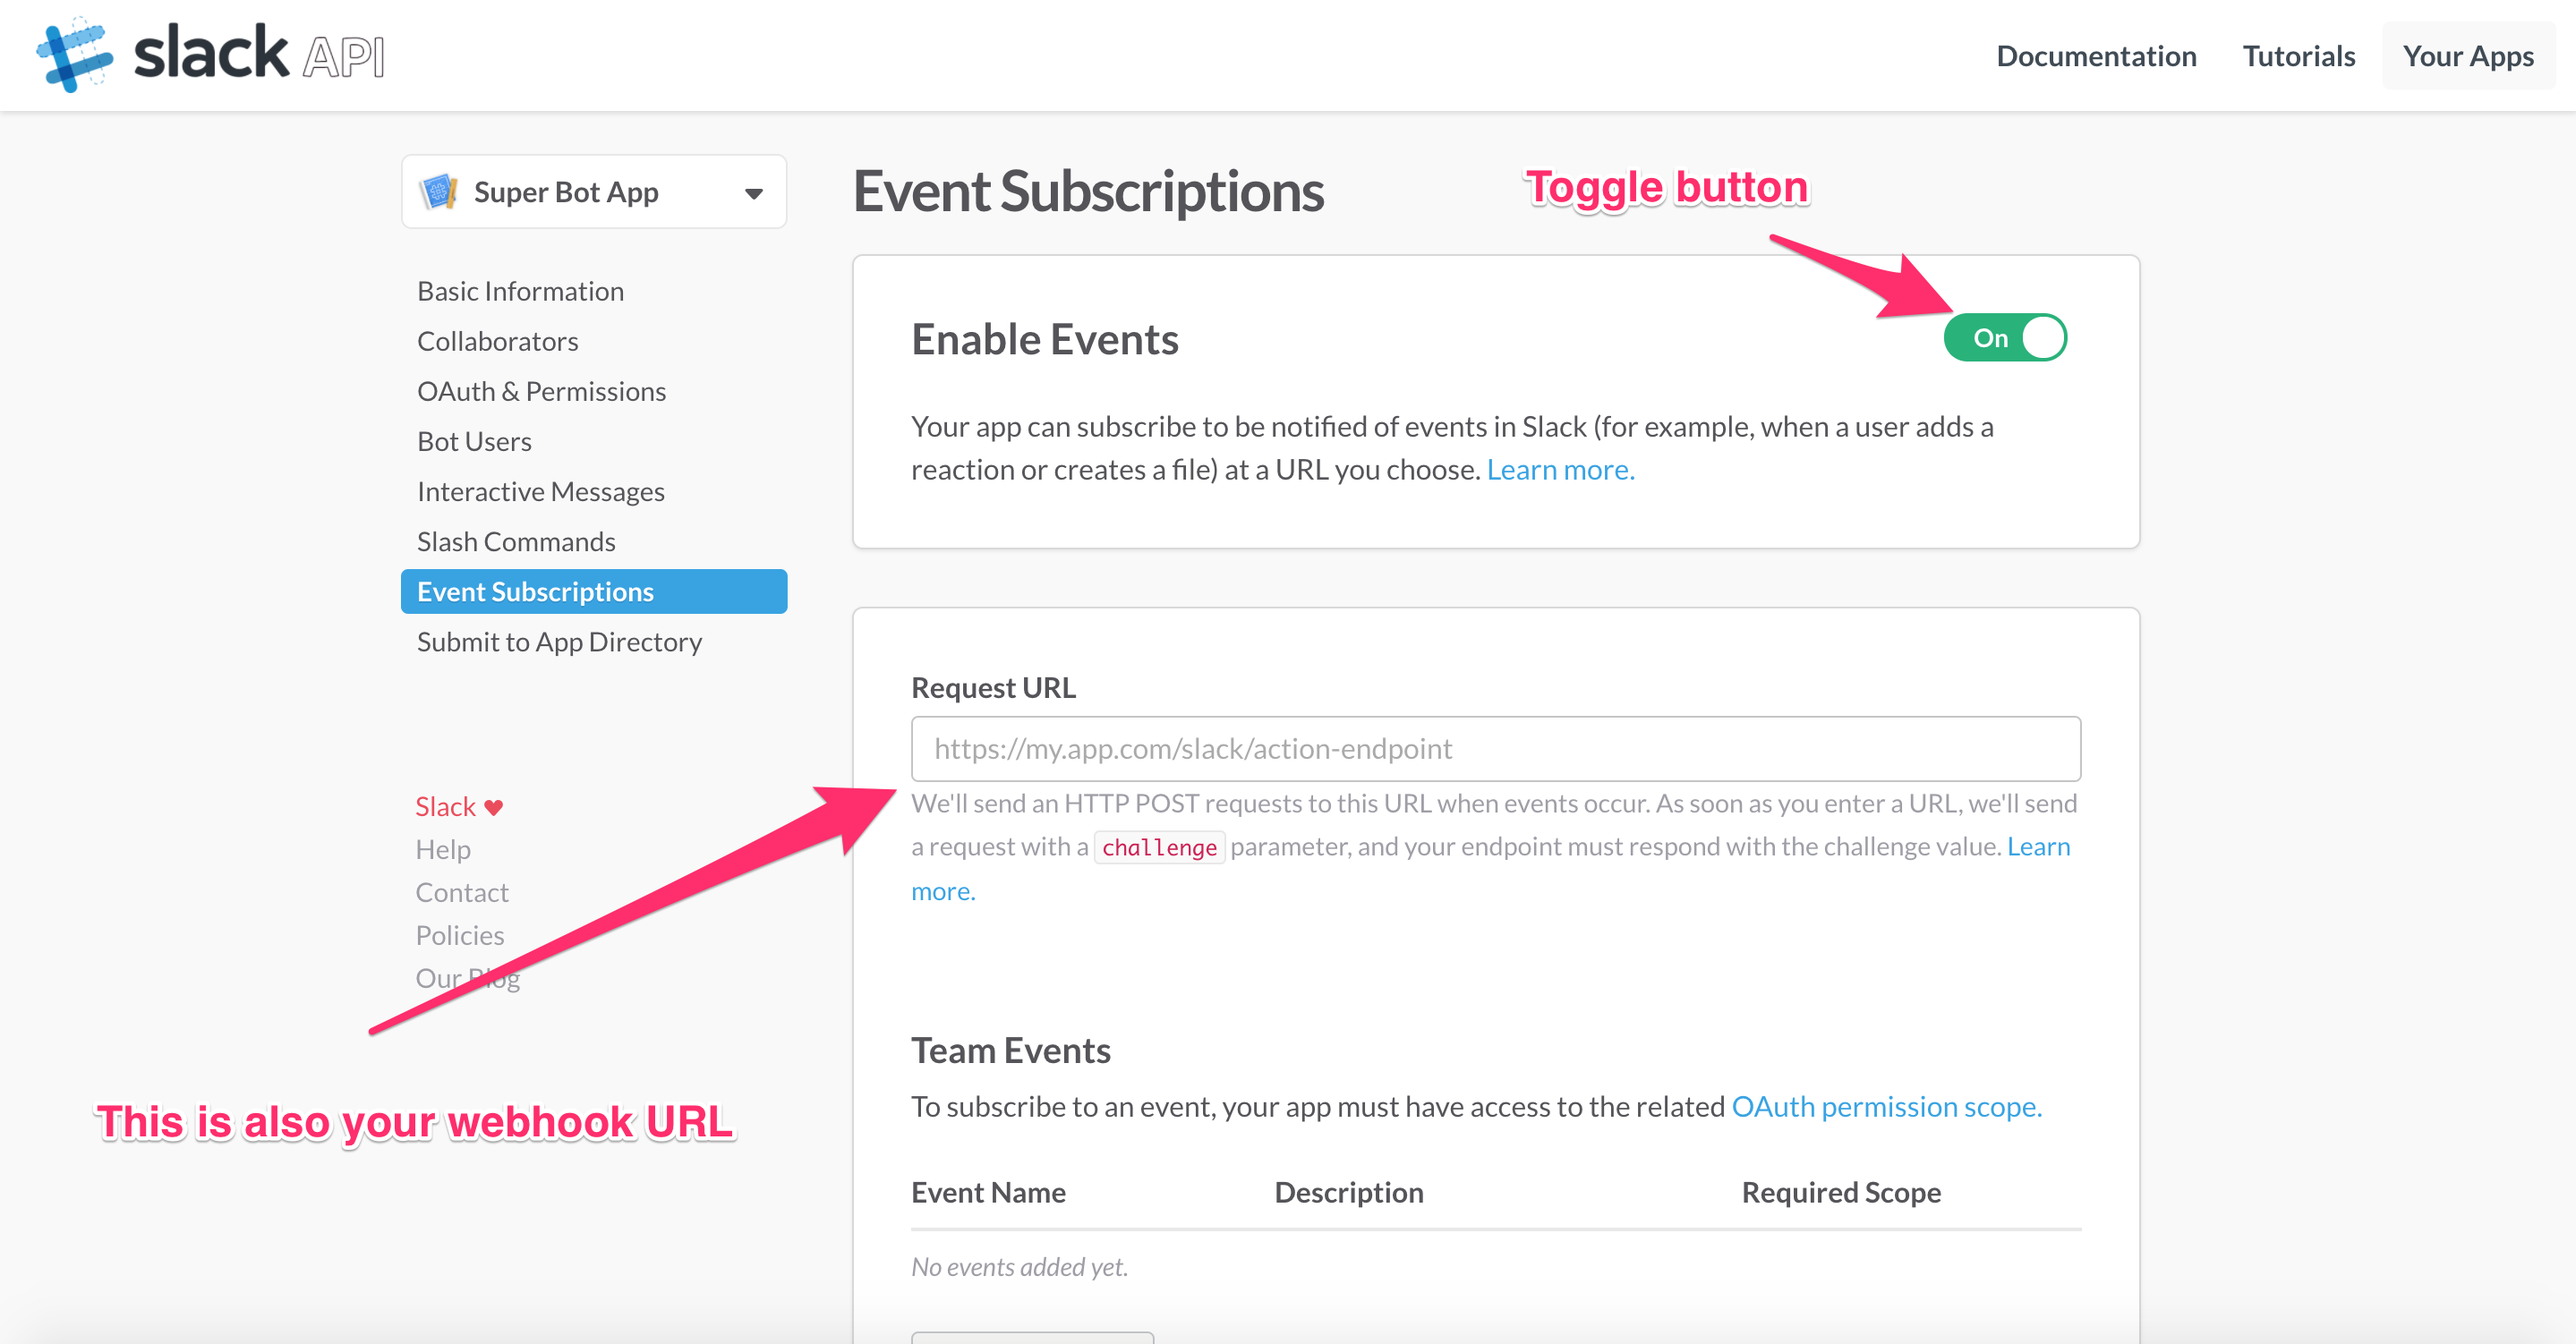
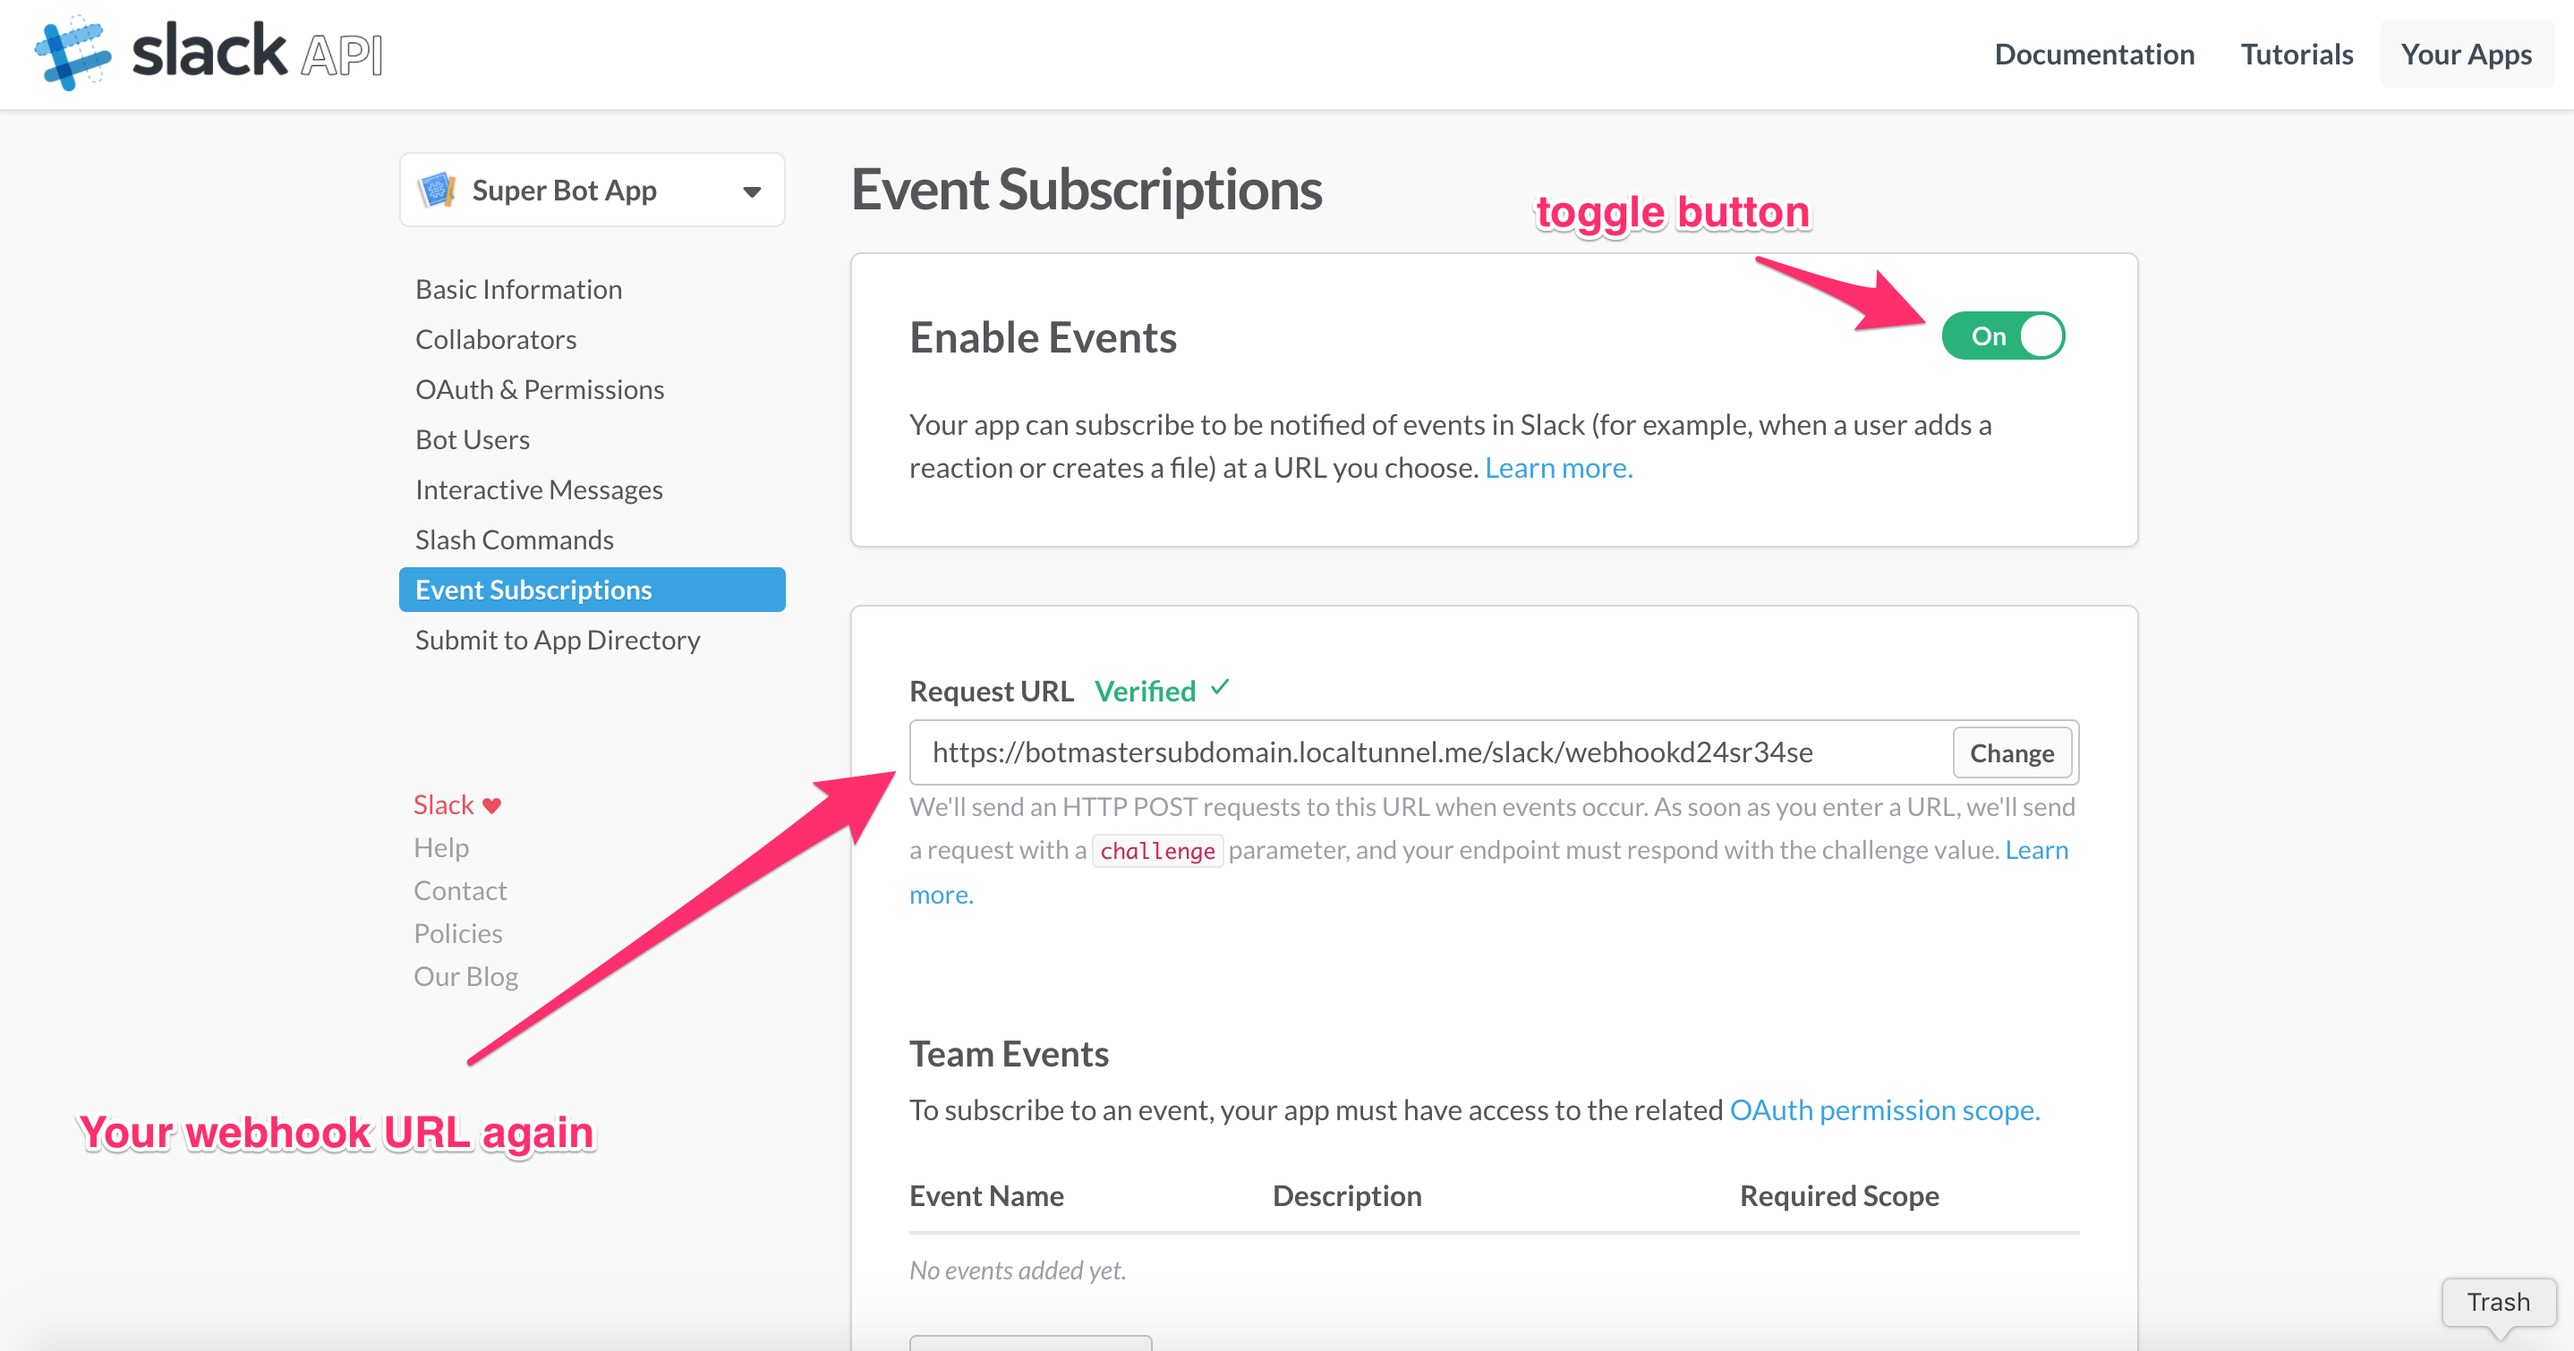
Add Slack setup documentation. Done for its first version

diff --git a/documentation_website/content/getting-started/slack-setup.md b/documentation_website/content/getting-started/slack-setup.md
@@ -16,8 +16,7 @@ const slackSettings = {
   credentials: {
     clientId: 'YOUR app client ID',
     clientSecret: 'YOUR app client secret',
-    verificationToken: 'YOUR app verification Token',
-    landingPageURL: 'YOUR landing page URL' // users will be redirected there after adding your bot app to slack. If not set, they will be redirected to their standard slack chats.
+    verificationToken: 'YOUR app verification Token'
   },
   webhookEndpoint: '/webhookd24sr34se',
   storeTeamInfoInFile: true,
@@ -44,36 +43,74 @@ The `slackSettings` object is required to allow us to communicate to end users v
 
 ## Credentials/Setting up the bot user
 
-This should take you less than 10 minutes if you follow these steps correctly. Don't skip any unless you know what you are doing.
+Following these steps, you will have a fully functional Slack bot using botmaster that can then be edited as wanted. This mini-tutorial uses localtunnel to expose one of your ports to the world. see why you might want to use this and how to install and setup localtunnel [here](/getting-started/webhooks#localtunnel)for your local botmaster project. You can use ngrok or any other service you know or find suitable and achieve the same result.
 
 1. Navigate to: https://api.slack.com/apps and make sure you are signed in. If you aren't you will be redirected to your team's slack once logged in and will need to go back to the mentioned link.
 
-2. Click the **create new App** button and enter an App Name when wanted. This won't be the name of the **bot user**. However, the name should ideally related to your bot user so as not to confuse your users. For instance, if your bot will be called *my_super_bot*, calling the app something like *My Super Bot App* would make sense.
+2. Click the **create new App** button and enter any App Name you want. This won't be the name of the **bot user**. However, the name should ideally be related to your bot user so as not to confuse your users. For instance, if your bot user will be called *my_super_bot*, calling the app something like *My Super Bot App* would make sense.
 
-3. In this page you see, you will see straight away in the *App credentials* section both your Client ID (`clientId` in Botmaster) and your Client Secret (`clientSecret` in Botmaster).
+3. On this page you were redirected to, you will find an *App credentials* section. Both your Client ID (`clientId` in Botmaster) and your Client Secret (`clientSecret` in Botmaster) are here. Take note of them.
 
-4. In the left panel, click on the **OAuth & Permissions** tab and enter your webhook in the **Redirect URL(s)** field as shown here: ![Slack Setup 1](/images/slack_setup_1.png?width=80%) This URL has to be of the form: **https://\<your_base_url\>/slack/\<webhookEndpoint\>**. For example, **if** I am using localtunnel to test the bot locally (see why you might want to use this and how to install and setup localtunnel for your botmaster project [here](/getting-started/webhooks#localtunnel)), and started localtunnel by running the following: `lt -p 3000 -s botmastersubdomain`. I would set my Redirect URL(s) to: `https://botmastersubdomain.localtunnel.me/slack/webhookd24sr34se` (based on the `webhookEnpoint` set in my `slackSettings`). Click on **Save Changes**.
+4. In the left panel, click on the **OAuth & Permissions** tab and enter your webhook in the **Redirect URL(s)** field as shown here:
+    ![Slack Setup 1](/images/slack_setup_1.png?width=90%)
+This URL has to be of the form: **https://\<your_base_url\>/slack/\<webhookEndpoint\>**. For example, **if** I am using localtunnel to test the bot locally, and started localtunnel by running the following:
+ ```bash
+  lt -p 3000 -s botmastersubdomain
+ ```
+I would set my Redirect URL(s) to: `https://botmastersubdomain.localtunnel.me/slack/webhookd24sr34se` (based on the `webhookEnpoint` set in my `slackSettings` at the top of this page). Click on **Save Changes**.
 
 5. Go to **Bot Users** and click on the **Add a Bot User** button. Select a name for your bot (e.g. my_super_bot) and click the **Add Bot User** button.
 
-6. Navigate to the **Event Subscriptions** tab and click on the toggle button in the to right corner to **on**. Then in the **Request URL** field that pops up, enter the same URL as in step 4. It should look something like this: ![Slack Setup 2](/images/slack_setup_2.png?width=80%)
+6. Navigate to the **Event Subscriptions** tab and click on the toggle button in the to right corner to **on**. Then in the **Request URL** field that pops up, enter the same URL as in step 4. **You will get an error**. This is normal and is due to two reasons. Firstly, we don't actually have an app started and listening at the mentioned URL and secondly because even if we did, we don't have our App's verification Token. Let's fix this!
 
-also, you'll need:
+7. Navigate back to **Basic Information** and note that you now have a **Verification Token** in the App Credentials box. Take note of it.
 
-```html
-<a href="https://slack.com/oauth/authorize?scope=bot&client_id=[YOUR_APP_CLIENT_ID]">
-  <img alt="Add to Slack" height="40" width="139"
-  src="https://platform.slack-edge.com/img/add_to_slack.png"
-  srcset="https://platform.slack-edge.com/img/add_to_slack.png 1x,
-          https://platform.slack-edge.com/img/add_to_slack@2x.png 2x" />
-</a>
-```
+8. Start your botmaster app in any project folder you might want (see [here](/getting-started/installation) if you haven't installed botmaster yet). To start the botmaster project, you'll want to create an `app.js` file with the contents from the [code](http://localhost:1313/getting-started/slack-setup/#code) at the top of this page in the root of your project folder. Replace the credentials with the ones you have gathered. Run `node app.js` to start the app. Let's now expose out bot to the world.
 
-If you don't already have these, follow the steps **1-4** on the Facebook Messenger guide:
-https://developers.facebook.com/docs/messenger-platform/quickstart
+9. For the webhook to work locally, you'll now need to make sure you've started localtunnel. If you are doing all of that from a server that already has a Domain Name, you won't need to do this. But I am assuming most people are doing this from their local computer. so in the command line, run something like this:
+    ```bash
+    lt -p 3000 -s <wanted_base_url_for_your_bot>
+    ```
 
-In **step 2**, where you setup your webhook, no need to code anything. Just specify the webhook, enter any secure string you want as a verify token(`verifyToken`) and copy that value in the settings object. Also, click on whichever message [those are "update"s using botmaster semantics] type you want to receive from Messenger (`message_deliveries`, `messages`, `message_postbacks` etc...).
+10. Go back to the **Event subscription** page and enter your webhook url again. This should now work and look something like this: ![Slack Setup 2](/images/slack_setup_2.png?width=90%) Scroll down and click on **Add Bot User Events**. At the minimum, add the following events:
+    * message.ipm
+    * message.channels
+    * message.im
+    * message.groups
+Click **Save Changes**
 
-To find your Facebook App Secret (`fbAppSecret`), navigate to your apps dashboard and under `App Secret` click show, enter your password if prompted and then there it is.
+11. We're almost done here. We need a way to install our app to test it out. This is done via what is called a Slack button. because botmaster manages all the nitty-gritty parts of this process, all you need to do is create a `views` folder in your project folder and create an `index.html` file in this 'views' folder with the following contents
+    ```html
+    <a href="https://slack.com/oauth/authorize?scope=bot&client_id=YOUR_APP_CLIENT_ID">
+      <img alt="Add to Slack" height="40" width="139"
+      src="https://platform.slack-edge.com/img/add_to_slack.png"
+      srcset="https://platform.slack-edge.com/img/add_to_slack.png 1x,
+              https://platform.slack-edge.com/img/add_to_slack@2x.png 2x" />
+    </a>
+    ```
+Note that you'll need to replace **YOUR_APP_CLIENT_ID** in the href with your own. You definitely don't want to put in your client secret here.
 
-If you are not too sure how webhooks work and/or how to get them to run locally, go to [webhooks](/getting-started/webhooks) to read some more.
+12. Assuming your botmaster app and localtunnel are still running, open your `index.html` file (not in a text editor, but actually in a browser) by double clicking on it. Authorize your newly created app to add it to your team. You should now be redirected to your teams slack and be able to chat to your bot.
+
+13. Bonus. You might actually want to allow others to install your app by using the Slack Button. However, to do so you will need to host it somewhere. We'll take advantage of the fact that botmaster uses express.js under the hood and edit our app.js file to look like this:
+
+    ```js
+    const Botmaster = require('botmaster');
+    const express = require('express'); // added
+    .
+    .
+    .
+    const botmaster = new Botmaster({ botsSettings });
+    botmaster.app.use(express.static(__dirname + '/views')); //added
+    // or if you don't want it at the root of your app, add this:
+    botmaster.app.use('/slack', express.static(__dirname + '/views')); // added
+
+    botmaster.on('update', (bot, update) => {
+      bot.reply(update, 'Right back at you');
+    });
+
+    ```
+Now if you navigate to your URL (`https://botmastersubdomain.localtunnel.me/` for this example) or your /slack sub URL (`https://botmastersubdomain.localtunnel.me/slack` for this example) you should see your Slack button. Feel free to share it with anyone.
+
+
+Now as with any other platform using Webhooks, you'll need to update these to your production Domain Name once you deploy your code to production. And in a more general sense, if you are still unsure how webhooks work within the botmaster framework go [here](/getting-started/webhooks)

diff --git a/documentation_website/content/home/index.md b/documentation_website/content/home/index.md
@@ -32,6 +32,6 @@ botmaster.on('update', (bot, update) => {
 
 Botmaster is platform agnostic in two important ways. Firstly, out of the box, developers can have bots running on Facebook Messenger, Slack, Twitter DM, Telegram and their personal webapp/app via socket.io with not only a standardized text message format, but also a standardized attachment format. Secondly, BotMaster makes no assumptions about the back-end bot itself - you can write code that allows BotMaster to call conversational engines such as IBM Watson's conversation API, open source frameworks or even write the conversation engine yourself.
 
-## Botmaster Philosophy
+## Botmaster's Philosophy
 
 Its philosophy is to minimise the amount of code developers have to write in order to create 1-on-1 conversational chatbots that work on multiple platforms. It does so by defining a standard with respect to what format messages take and how 1-on-1 conversations occur. Messages to/from the various messaging channels supported are all mapped onto this botmaster standard, meaning the code you write is much reduced when compared to a set of point:point integrations.

diff --git a/documentation_website/content/getting-started/installation.md b/documentation_website/content/getting-started/installation.md
@@ -7,11 +7,22 @@ toc: true
 weight: 10
 ---
 
-To install, simply make sure you have `npm` installed and run the following commands in your project directory:
+Make sure you have [Node.js](https://nodejs.org/en/) and npm installed on your machine. If you don't, I recommend using nvm to manage your node versions. Find out more about it [here](https://github.com/creationix/nvm/blob/master/README.markdown)
+
+Once you have node, create a new project directory and go into it:
+
+```bash
+mkdir my_botmaster_project && cd my_botmaster_project
+```
+
+Make sure you initialize a node project in the new directory and going through the prompt by doing:
+
+```bash
+npm init
+```
+
+Finally, install the botmaster npm package.
 
 ```bash
 npm install --save botmaster
 ```
-If this is a new project, you may need to run `npm init` before for it to work.
-
-If you don't have node and npm installed on your machine yet, I recommend using nvm to manage your node versions. Find out more about it <a id="logo" target="_blank" href="https://github.com/creationix/nvm/blob/master/README.markdown">here</a>
